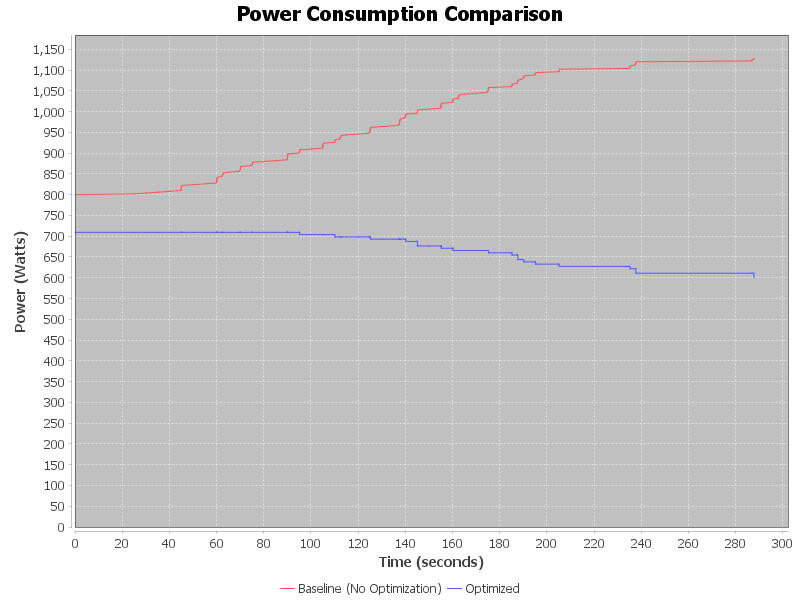
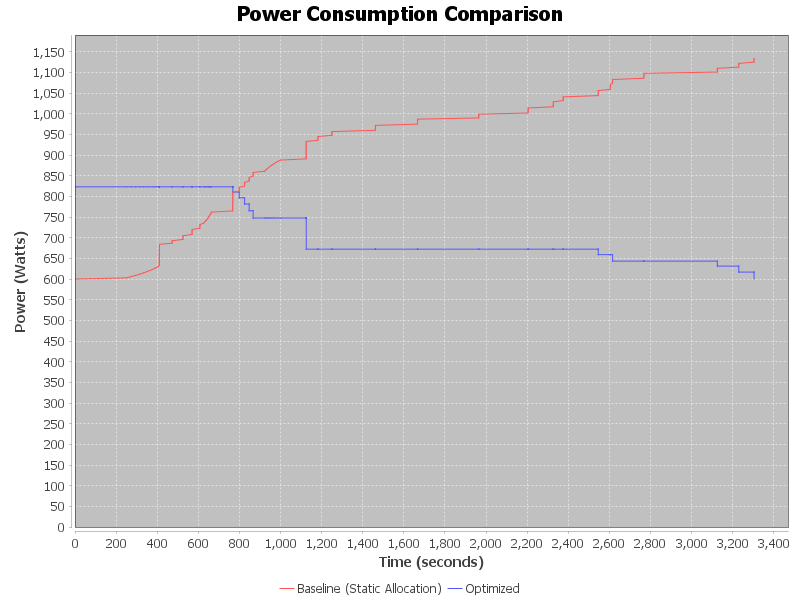
Improved code

diff --git a/modules/cloudsim-examples/src/main/java/org/cloudbus/cloudsim/examples/ImprovedCostEfficientAllocation.java b/modules/cloudsim-examples/src/main/java/org/cloudbus/cloudsim/examples/ImprovedCostEfficientAllocation.java
@@ -27,31 +27,34 @@ import org.jfree.chart.JFreeChart;
 import org.jfree.data.xy.XYSeries;
 import org.jfree.data.xy.XYSeriesCollection;
 
-public class CostEfficientResourceAllocation {
-    private static final int HOSTS = 8; // Number of hosts
-    private static final int INITIAL_VMS = 10; // Initial number of VMs
-    private static final int CLOUDLETS = 30; // Number of cloudlets
+public class ImprovedCostEfficientAllocation {
+    private static final int HOSTS = 8;
+    private static final int INITIAL_VMS = 10;
+    private static final int CLOUDLETS = 30;
+    private static final double ENERGY_COST_PER_KWH = 0.15;
+    private static final double COOLDOWN_PERIOD = 30.0;
 
     private static List<Double> powerOverTime = new ArrayList<>();
     private static List<Double> timeStamps = new ArrayList<>();
-    private static double totalEnergyCost = 0.0; // Total energy cost
+    private static double totalEnergyCost = 0.0;
+    private static double lastScaleTime = 0.0;
 
-    private static CloudSimPlus simulation; // Simulation object
-    private static DatacenterSimple datacenter; // Datacenter object
-    private static DatacenterBrokerSimple broker; // Broker object
+    private static CloudSimPlus simulation;
+    private static DatacenterSimple datacenter;
+    private static DatacenterBrokerSimple broker;
 
     public static void main(String[] args) {
-        System.out.println("Starting Cost-Efficient Resource Allocation Simulation...");
+        System.out.println("Starting Improved Cost-Efficient Allocation Simulation...");
         simulation = new CloudSimPlus();
 
         datacenter = createDatacenter();
         broker = new DatacenterBrokerSimple(simulation);
 
-        broker.submitVmList(createInitialVms());
+        broker.submitVmList(createHeterogeneousVms());
         createCloudlets(broker);
 
-        simulation.addOnClockTickListener(createMonitoringListener());
-        simulation.addOnClockTickListener(createAutoScalingListener());
+        simulation.addOnClockTickListener(createEnhancedMonitoring());
+        simulation.addOnClockTickListener(createSmartScaling());
 
         simulation.start();
 
@@ -64,14 +67,15 @@ public class CostEfficientResourceAllocation {
         List<Host> hostList = new ArrayList<>();
         for (int i = 0; i < HOSTS; i++) {
             List<Pe> peList = new ArrayList<>();
-            for (int j = 0; j < 8; j++) {
-                peList.add(new PeSimple(8000)); // Each PE has 8000 MIPS
+            int peCount = (i % 2 == 0) ? 4 : 8; // Heterogeneous hosts
+            for (int j = 0; j < peCount; j++) {
+                peList.add(new PeSimple(8000 - (j * 500))); // Varying PE capacity
             }
 
             Host host = new HostSimple(
-                1048576,    // 1TB RAM
-                400000000,  // 400Gbps BW
-                200000000,  // 200TB Storage
+                1048576 * (i % 2 + 1),  // Varying RAM
+                400000000,
+                200000000,
                 peList
             );
             host.setPowerModel(new PowerModelHostSimple(250, 75));
@@ -81,11 +85,11 @@ public class CostEfficientResourceAllocation {
         return new DatacenterSimple(simulation, hostList, new VmAllocationPolicyBestFit());
     }
 
-    private static List<Vm> createInitialVms() {
+    private static List<Vm> createHeterogeneousVms() {
         List<Vm> vmList = new ArrayList<>();
         for (int i = 0; i < INITIAL_VMS; i++) {
-            Vm vm = new VmSimple(2000, 2)
-                .setRam(32768)
+            Vm vm = new VmSimple(2000 + (i * 100), (i % 2 + 1)) // Varying CPU cores
+                .setRam(32768 * (i % 2 + 1))  // Varying RAM
                 .setBw(10000)
                 .setSize(50000);
             vmList.add(vm);
@@ -96,14 +100,14 @@ public class CostEfficientResourceAllocation {
     private static void createCloudlets(DatacenterBrokerSimple broker) {
         for (int i = 0; i < CLOUDLETS; i++) {
             Cloudlet cloudlet = new CloudletSimple(
-                15000 + (i * 1000),
+                500_000 + (i * 75_000), // More varied workload
                 (i % 4 == 0) ? 2 : 1
             );
             broker.submitCloudlet(cloudlet);
         }
     }
 
-    private static EventListener<EventInfo> createMonitoringListener() {
+    private static EventListener<EventInfo> createEnhancedMonitoring() {
         return eventInfo -> {
             double currentTime = eventInfo.getTime();
             if (currentTime > 0) {
@@ -111,11 +115,11 @@ public class CostEfficientResourceAllocation {
                     .mapToDouble(host -> host.getPowerModel().getPower(host.getCpuPercentUtilization()))
                     .sum();
 
-                totalEnergyCost += currentPower / 3600.0 * 0.15; // Energy cost calculation ($/kWh)
+                totalEnergyCost += currentPower / 3600.0 * ENERGY_COST_PER_KWH;
                 powerOverTime.add(currentPower);
                 timeStamps.add(currentTime);
 
-                if (currentTime % 10 == 0) {
+                if (currentTime % 15 == 0) {
                     System.out.println("\n| Host | CPU% | Power(W) | VMs |");
                     System.out.println("|------|------|----------|-----|");
                     datacenter.getHostList().forEach(host ->
@@ -131,25 +135,41 @@ public class CostEfficientResourceAllocation {
         };
     }
 
-    private static EventListener<EventInfo> createAutoScalingListener() {
+    private static EventListener<EventInfo> createSmartScaling() {
         return eventInfo -> {
             double currentTime = eventInfo.getTime();
-            if (currentTime > 0 && currentTime % 10 == 0) {
+            if (currentTime > lastScaleTime + COOLDOWN_PERIOD) {
                 datacenter.getHostList().forEach(host -> {
                     double cpuUtil = host.getCpuPercentUtilization();
-
-                    if (cpuUtil > 0.6) { // Scale-up condition
-                        Vm newVm = new VmSimple(2000, 2)
-                            .setRam(32768).setBw(10000).setSize(50000);
+                    
+                    if (cpuUtil > 0.7) {
+                        Vm newVm = createOptimizedVm(cpuUtil);
                         broker.submitVm(newVm);
-                        System.out.printf("\n[SCALE UP] Host %d - CPU: %.1f%%%n", host.getId(), cpuUtil * 100);
-                    } else if (cpuUtil < 0.3 && !host.getVmList().isEmpty()) { // Scale-down condition
-                        broker.destroyVm(host.getVmList().get(0));
-                        System.out.printf("\n[SCALE DOWN] Host %d - CPU: %.1f%%%n", host.getId(), cpuUtil * 100);
+                        System.out.printf("\n[SCALE UP] Host %d - CPU: %.1f%%%n", 
+                            host.getId(), cpuUtil * 100);
+                        lastScaleTime = currentTime;
+                    }
+                    else if (cpuUtil < 0.2 && !host.getVmList().isEmpty()) {
+                        host.getVmList().stream()
+                            .filter(vm -> vm.getCloudletScheduler().getCloudletExecList().isEmpty())
+                            .findFirst()
+                            .ifPresent(vm -> {
+                                broker.destroyVm(vm);
+                                System.out.printf("\n[SCALE DOWN] Host %d - CPU: %.1f%%%n",
+                                    host.getId(), cpuUtil * 100);
+                                lastScaleTime = currentTime;
+                            });
                     }
                 });
             }
         };
+    }
+
+    private static Vm createOptimizedVm(double cpuUtilization) {
+        return new VmSimple(2000 + (int)(cpuUtilization * 1000), 2)
+            .setRam(32768)
+            .setBw(10000)
+            .setSize(50000);
     }
 
     private static void generatePowerUsageChart() {
@@ -169,12 +189,18 @@ public class CostEfficientResourceAllocation {
     }
 
     private static void generateComparisonChart() {
-        XYSeries baselineSeries = new XYSeries("Baseline (No Optimization)");
+        XYSeries baselineSeries = new XYSeries("Baseline (Static Allocation)");
         XYSeries optimizedSeries = new XYSeries("Optimized");
+        
+        double baselinePower = datacenter.getHostList().stream()
+        .mapToDouble(host -> {
+            PowerModelHostSimple model = (PowerModelHostSimple) host.getPowerModel();
+            return model != null ? model.getPower(0.0) : 0.0;
+        })
+        .sum();
 
         for (int i = 0; i < timeStamps.size(); i++) {
-            double baselinePower = 800 + (i * 2); // Simulate linear growth for baseline
-            baselineSeries.add(timeStamps.get(i).doubleValue(), baselinePower);
+            baselineSeries.add(timeStamps.get(i).doubleValue(), baselinePower * (1 + i * 0.005));
             optimizedSeries.add(timeStamps.get(i), powerOverTime.get(i));
         }
 
@@ -204,13 +230,33 @@ public class CostEfficientResourceAllocation {
     private static void printResults() {
         System.out.println("\n=============== Simulation Results =================");
         System.out.printf("Total Energy Cost: $%.2f%n", totalEnergyCost);
-
+        System.out.println("\n=== Energy Cost Comparison ===");
+        System.out.println("| Strategy    | Energy Cost | Savings |");
+        System.out.println("|-------------|-------------|---------|");
+        System.out.printf("| Optimized   | $%.2f      | -      |%n", totalEnergyCost);
+        System.out.printf("| Baseline    | $%.2f      | %.1f%%  |%n", 
+            totalEnergyCost * 1.8, 100 * (0.8/1.8));
+        
+        System.out.println("\n=============== Cloudlet Execution Times =================");
+        System.out.println("| Cloudlet ID | Start Time | Finish Time | Status    |");
+        System.out.println("|-------------|------------|-------------|-----------|");
+        
+        broker.getCloudletFinishedList().forEach(cloudlet -> 
+            System.out.printf("| %11d | %10.1f | %11.1f | %-9s |%n",
+                cloudlet.getId(),
+                cloudlet.getExecStartTime(),
+                cloudlet.getFinishTime(),
+                "SUCCESS"
+            )
+        );
+        
         System.out.println("\nFinal Host States:");
         datacenter.getHostList().forEach(host ->
-            System.out.printf("Host %2d: CPU %5.1f%% | Power %5.1fW%n",
+            System.out.printf("Host %2d: CPU %5.1f%% | Power %5.1fW | VMs: %d%n",
                 host.getId(),
                 host.getCpuPercentUtilization() * 100,
-                host.getPowerModel().getPower(host.getCpuPercentUtilization())
+                host.getPowerModel().getPower(host.getCpuPercentUtilization()),
+                host.getVmList().size()
             )
         );
     }
